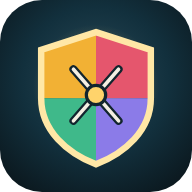
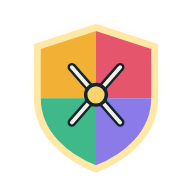
Açılış ekranı ikonu: kare arka plan kaldırıldı, sadece kalkan amblemi (ana ekran ikonu arka planlı kalır)
Claude-Session: https://claude.ai/code/session_01Cq9a5vmJS5LSfdENf7Ugfg

diff --git a/sw.js b/sw.js
@@ -1,5 +1,5 @@
 // Fetih önbellek görevlisi: oyun internetsiz de açılır; internet varken yeni sürüm otomatik gelir.
-const C = 'fetih-66b8d9f4';
+const C = 'fetih-464cced1';
 const FILES = ["./", "index.html", "manifest.webmanifest", "icon-192.png", "icon-512.png", "icon-maskable-512.png", "apple-touch-icon.png", "favicon-48.png"];
 self.addEventListener('install', e => {
   e.waitUntil(caches.open(C).then(c => c.addAll(FILES)).then(() => self.skipWaiting()));
